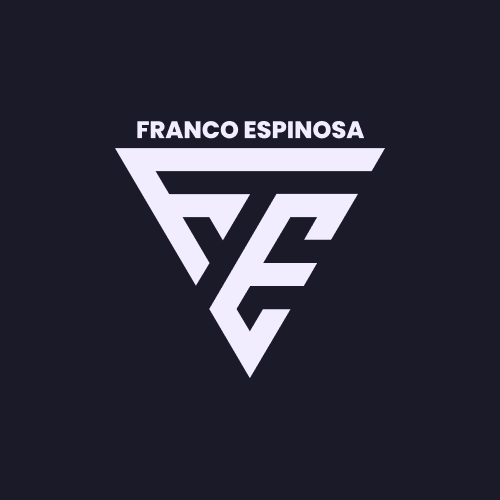
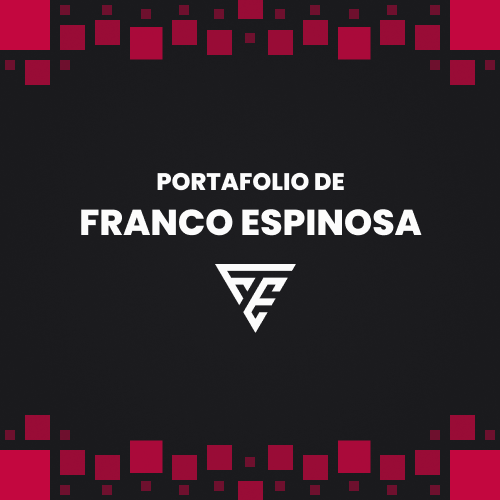
Defined final colors palette and final OpenGraph image

Changed region(s): [[0.15, 0.24, 0.84, 0.75], [0.0, 0.81, 1.0, 1.0], [0.0, 0.0, 1.0, 0.18]]

diff --git a/styles/globals.css b/styles/globals.css
@@ -18,15 +18,17 @@ body {
 }
 
 :root {
-  --black-main: #1b1a28;
-  --black-secondary: #212031;
-  --white-main: #f1edff;
-  --white-secondary: #aba9bc;
-  --cyan: #00c894;
-  --cyan-dark: #00c894;
-  --cyan-dark-transparent: rgba(0, 200, 148, 0.25);
-  --pink: #00c894;
-  --pink-transparent: #f1edff44;
+  --black-main: #1a1a1d;
+  --black-secondary: #1d1d20;
+  --white-main: #fcfcfc;
+  --white-secondary: #fafafa;
+  --cyan: #c3073f;
+  --cyan-dark: #c3073f;
+  --cyan-dark-transparent: rgba(195, 7, 63, 0.25);
+  --cyan-dark-dotted: rgba(195, 7, 63, 0.5);
+  --black-projects: rgba(29, 29, 32, 0.75);
+  --pink: #c3073f;
+  --pink-transparent: #fcfcfc44;
 }
 
 .content {

diff --git a/styles/modules/projects.module.css b/styles/modules/projects.module.css
@@ -146,7 +146,7 @@
   justify-content: center;
   align-items: flex-start;
   padding: 8px 12px;
-  background-color: rgb(22, 22, 40, 0.75);
+  background-color: var(--black-projects);
   gap: 14px;
   z-index: 75;
 }
@@ -166,7 +166,7 @@
   text-align: start;
   color: var(--white-main);
   padding: 8px 16px;
-  background-color: rgb(22, 22, 40, 0.75);
+  background-color: var(--black-projects);
   user-select: none;
   cursor: default;
 }
@@ -300,7 +300,7 @@
     justify-content: center;
     align-items: flex-start;
     padding: 8px;
-    background-color: rgb(22, 22, 40, 0.75);
+    background-color: var(--black-projects);
     gap: 14px;
     z-index: 75;
   }

diff --git a/styles/modules/landing.module.css b/styles/modules/landing.module.css
@@ -42,8 +42,11 @@
   height: 25%;
   position: absolute;
   z-index: -1;
-  background-image: radial-gradient(rgb(0, 200, 148, 0.5) 10%, transparent 14%),
-    radial-gradient(rgb(0, 200, 148, 0.5) 10%, transparent 14%);
+  background-image: radial-gradient(
+      var(--cyan-dark-dotted) 10%,
+      transparent 14%
+    ),
+    radial-gradient(var(--cyan-dark-dotted) 10%, transparent 14%);
   background-position: 0px 0px, 8px 8px;
   background-size: 16px 16px;
   background-color: transparent;

diff --git a/styles/modules/project_transition.module.css b/styles/modules/project_transition.module.css
@@ -61,8 +61,11 @@
 .dots_right {
   width: 75px;
   height: 75px;
-  background-image: radial-gradient(rgb(0, 200, 148, 0.5) 10%, transparent 14%),
-    radial-gradient(rgb(0, 200, 148, 0.5) 10%, transparent 14%);
+  background-image: radial-gradient(
+      var(--cyan-dark-dotted) 10%,
+      transparent 14%
+    ),
+    radial-gradient(var(--cyan-dark-dotted) 10%, transparent 14%);
   background-position: 0px 0px, 8px 8px;
   background-size: 16px 16px;
   background-color: transparent;
